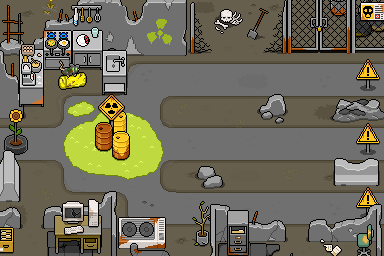
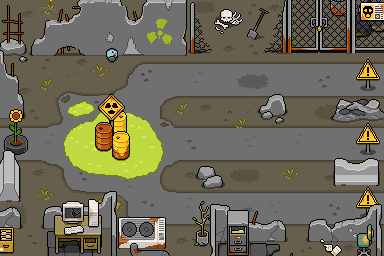
fixed wrong tiles

diff --git a/TRASH-TD/Assets/_Project/Scripts/Editor/InitialAssetGenerator.cs b/TRASH-TD/Assets/_Project/Scripts/Editor/InitialAssetGenerator.cs
@@ -993,9 +993,9 @@ namespace TrashTD.Editor
             string[] layoutRows =
             {
                 "BHHHLLLLLLLS",
-                "BHTTTHHBHBBB",
+                "BHTTTHHHBHBB",
                 "ELTBTLLLLLLS",
-                "BHTTTHBHBHBB",
+                "BHTTTHBHHHBB",
                 "BHHHLLLLLLLS"
             };
 
